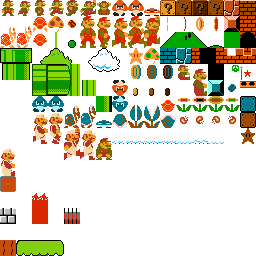
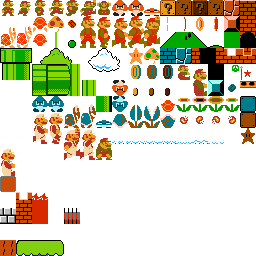
small flag done

Changed region(s): [[0.0625, 0.75, 0.125, 0.875]]

diff --git a/Mario/Scene.cpp b/Mario/Scene.cpp
@@ -14,8 +14,8 @@ using namespace irrklang;
 
 #define ZOOM 2
 
-#define INIT_PLAYER_X_TILES 197
-#define INIT_PLAYER_Y_TILES 9
+#define INIT_PLAYER_X_TILES 7
+#define INIT_PLAYER_Y_TILES 14
 #define PLAYER_GOAL_x 210
 #define FLAG_POS 198
 
@@ -114,6 +114,7 @@ void Scene::init(string level)
 	powerUps.erase(powerUps.begin(), powerUps.end());
 	itemBlocks.erase(itemBlocks.begin(), itemBlocks.end());
 	koopas.erase(koopas.begin(), koopas.end());
+	coins.erase(coins.begin(), coins.end());
 	map = TileMap::createTileMap(level, glm::vec2(SCREEN_X, SCREEN_Y), texProgram);
 	background = TileMap::createTileMap("levels/background4.txt", glm::vec2(SCREEN_X, SCREEN_Y), texProgram);
 
@@ -143,6 +144,9 @@ void Scene::init(string level)
 	smallFlag = new Flag();
 	smallFlag->init(glm::ivec2(SCREEN_X, SCREEN_Y), texProgram, 1);
 	smallFlag->setPosition(glm::vec2((FLAG_POS+6) * map->getTileSize(), 14 * map->getTileSize()));
+	cover = new FlagCover();
+	cover->init(glm::ivec2(SCREEN_X, SCREEN_Y), texProgram);
+	cover->setPosition(glm::vec2((FLAG_POS + 6) * map->getTileSize(), 13 * map->getTileSize()));
 
 	std::vector<glm::ivec2> coinPositions = map->getCoinPositions();
 	for (const glm::ivec2& coinPos : coinPositions) {
@@ -529,6 +533,7 @@ void Scene::render()
 	map->render();
 	bigFlag->render(camx);
 	smallFlag->render(camx);
+	cover->render(camx);
 	if (flagScore != nullptr) flagScore->render(camx);
 	for (const Coin* coin : coins) {
 		if (coin != nullptr) {

diff --git a/Mario/flagCover.cpp b/Mario/flagCover.cpp
@@ -1,0 +1,34 @@
+#include <cmath>
+#include <iostream>
+#include <GL/glew.h>
+#include <GL/glut.h>
+#include "FlagCover.h"
+#include "Game.h"
+
+void FlagCover::init(const glm::ivec2& tileMapPos, ShaderProgram& shaderProgram) {
+	spritesheet.loadFromFile("images/tilesheetv3.png", TEXTURE_PIXEL_FORMAT_RGBA);
+	sprite = Sprite::createSprite(glm::ivec2(16, 32), glm::vec2(0.0625f, 0.125f), &spritesheet, &shaderProgram);
+	sprite->setNumberAnimations(1);
+	sprite->setAnimationSpeed(0, 6);
+	sprite->addKeyframe(0, glm::vec2(0.0625f, 0.75f));
+
+	sprite->changeAnimation(0, 0);
+
+	tileMapDispl = tileMapPos;
+}
+
+void FlagCover::setPosition(const glm::vec2& pos)
+{
+	posCover = pos;
+	sprite->setPosition(glm::vec2(float(tileMapDispl.x + posCover.x), float(tileMapDispl.y + posCover.y)));
+}
+
+void FlagCover::render(int offset) const
+{
+	sprite->render(offset);
+}
+
+void FlagCover::update(int deltatime) {
+
+	sprite->update(deltatime, false, 1);
+}

diff --git a/Mario/flagCover.h b/Mario/flagCover.h
@@ -1,0 +1,19 @@
+#ifndef _FLAGCOVER_INCLUDE
+#define _FLAGCOVER_INCLUDE
+
+#include "Sprite.h"
+
+class FlagCover
+{
+public:
+	void init(const glm::ivec2& tileMapPos, ShaderProgram& shaderProgram);
+	void update(int deltatime);
+	void render(int offset) const;
+	void setPosition(const glm::vec2& pos);
+private:
+	glm::ivec2 tileMapDispl, posCover;
+	Texture spritesheet;
+	Sprite* sprite;
+};
+#endif
+

diff --git a/Mario/Scene.h b/Mario/Scene.h
@@ -19,6 +19,7 @@
 #include "Koopa.h"
 #include "Brick.h"
 #include "Flag.h"
+#include "FlagCover.h"
 using namespace irrklang;
 
 
@@ -71,6 +72,7 @@ private:
 	std::vector<Brick*> bricks;
 	Flag* bigFlag;
 	Flag* smallFlag;
+	FlagCover* cover;
 	Score* flagScore;
 	bool finished, smallFlagActivated;
 	

diff --git a/Mario/Player.cpp b/Mario/Player.cpp
@@ -921,6 +921,7 @@ void Player::setFlagAnim() {
 	flagAnim = true;
 	bJumping = false;
 	speedX = 0;
+	if (posPlayer.y > (super ? 239 : 255)) posPlayer.y = (super ? 239 : 255);
 }
 
 bool Player::getFlagAnim() {
